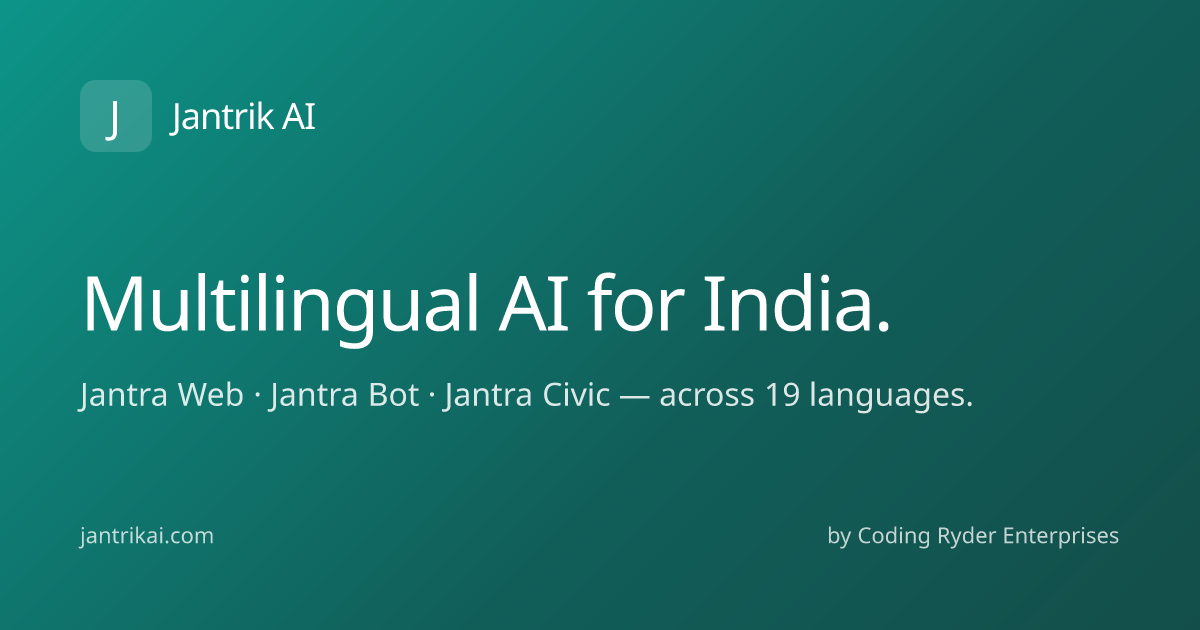
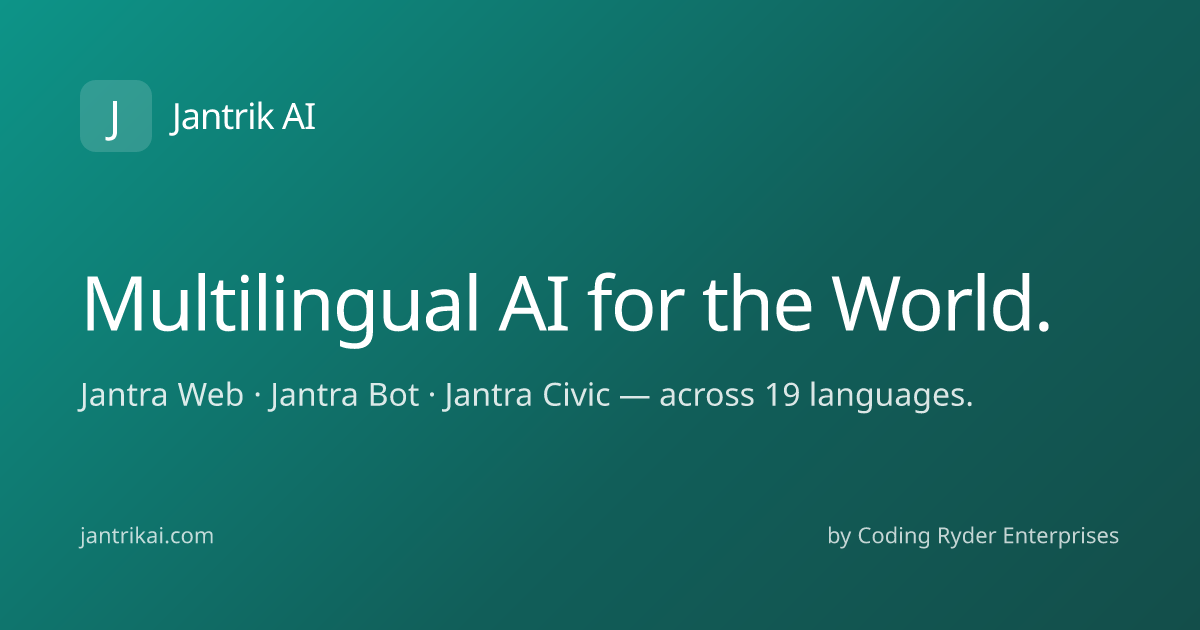
Reframe tagline from "for India" to "for the World"
Update site title, OpenGraph title, and Twitter title in
app/layout.tsx, and regenerate the 1200x630 social preview PNG
with the new headline. PNG stays a static asset so the
Content-Type fix from d11009f still applies on Render.

Changed region(s): [[0.5858, 0.4222, 0.8942, 0.5429]]

diff --git a/app/layout.tsx b/app/layout.tsx
@@ -15,7 +15,7 @@ export const viewport: Viewport = {
 export const metadata: Metadata = {
   metadataBase: new URL(siteUrl),
   title: {
-    default: 'Jantrik AI — Multilingual AI for India in 19 languages',
+    default: 'Jantrik AI — Multilingual AI for the World in 19 languages',
     template: '%s · Jantrik AI',
   },
   description:
@@ -48,7 +48,7 @@ export const metadata: Metadata = {
   openGraph: {
     type: 'website',
     siteName: 'Jantrik AI',
-    title: 'Jantrik AI — Multilingual AI for India in 19 languages',
+    title: 'Jantrik AI — Multilingual AI for the World in 19 languages',
     description:
       'Jantra Web, Jantra Bot, and Jantra Civic — three multilingual AI products for India, across 19 languages.',
     url: siteUrl,
@@ -56,7 +56,7 @@ export const metadata: Metadata = {
   },
   twitter: {
     card: 'summary_large_image',
-    title: 'Jantrik AI — Multilingual AI for India in 19 languages',
+    title: 'Jantrik AI — Multilingual AI for the World in 19 languages',
     description:
       'Jantra Web, Jantra Bot, and Jantra Civic — three multilingual AI products for India, across 19 languages.',
   },
